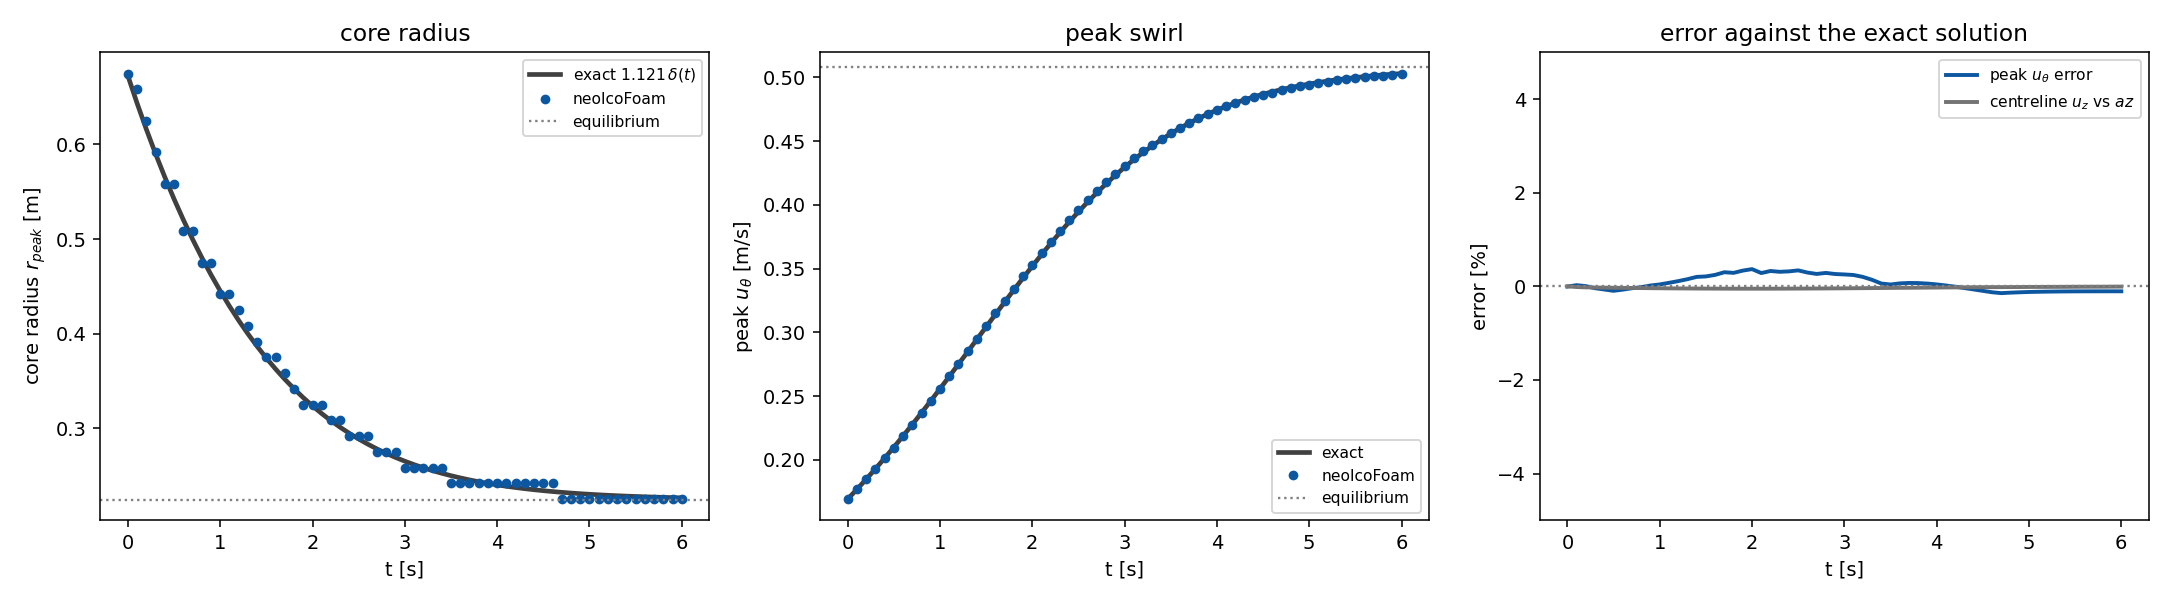
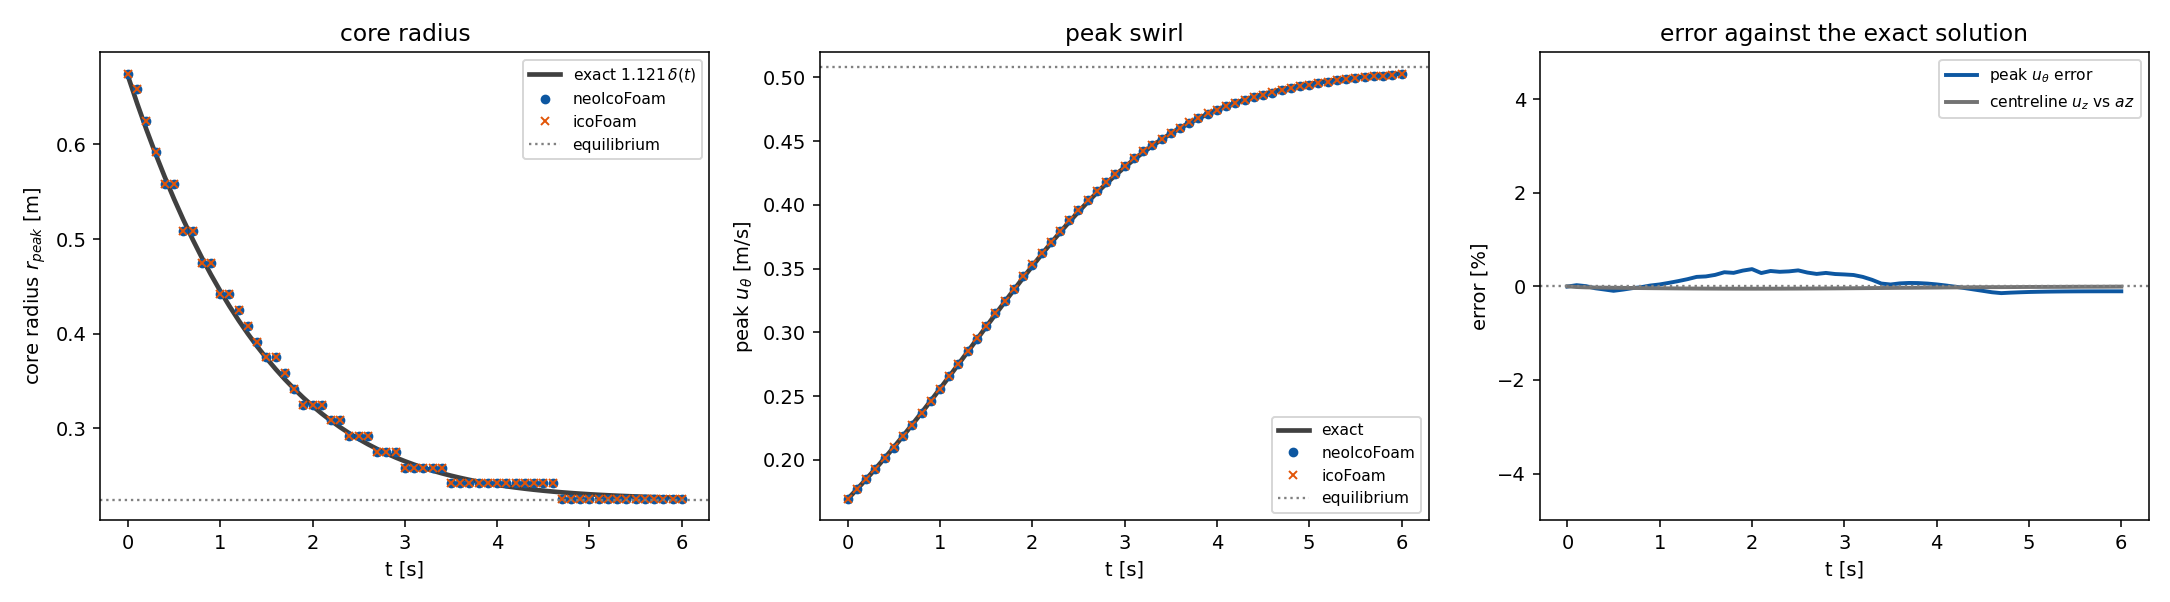
stretchedVortex: add the icoFoam cross-check to the results
icoFoam on the identical case agrees with neoIcoFoam to 2.3e-04 on peak u_theta
at every write time, so the sub-percent error against the exact delta(t) is the
discretisation rather than either solver.

Claude-Session: https://claude.ai/code/session_01NzEWhqzvNRLC4i4NWCGwHw

diff --git a/tutorials/neoIcoFoam/stretchedVortex/README.md b/tutorials/neoIcoFoam/stretchedVortex/README.md
@@ -161,6 +161,11 @@ the end:
 Global continuity error runs at ~4e-20, twelve orders below what an outflow that
 needs rescaling produces.
 
+OpenFOAM's `icoFoam` on the identical case -- same mesh, boundary conditions and
+schemes, only `application` changed -- agrees with `neoIcoFoam` to 2.3e-04 on
+peak `u_theta` at every write time (the crosses in the figure), so the residual
+error above is the discretisation, not either solver.
+
 ![meridional structure](doc/vortexStructure.png)
 
 The meridional plane shows the expected topology: radial inflow at the sides, a
